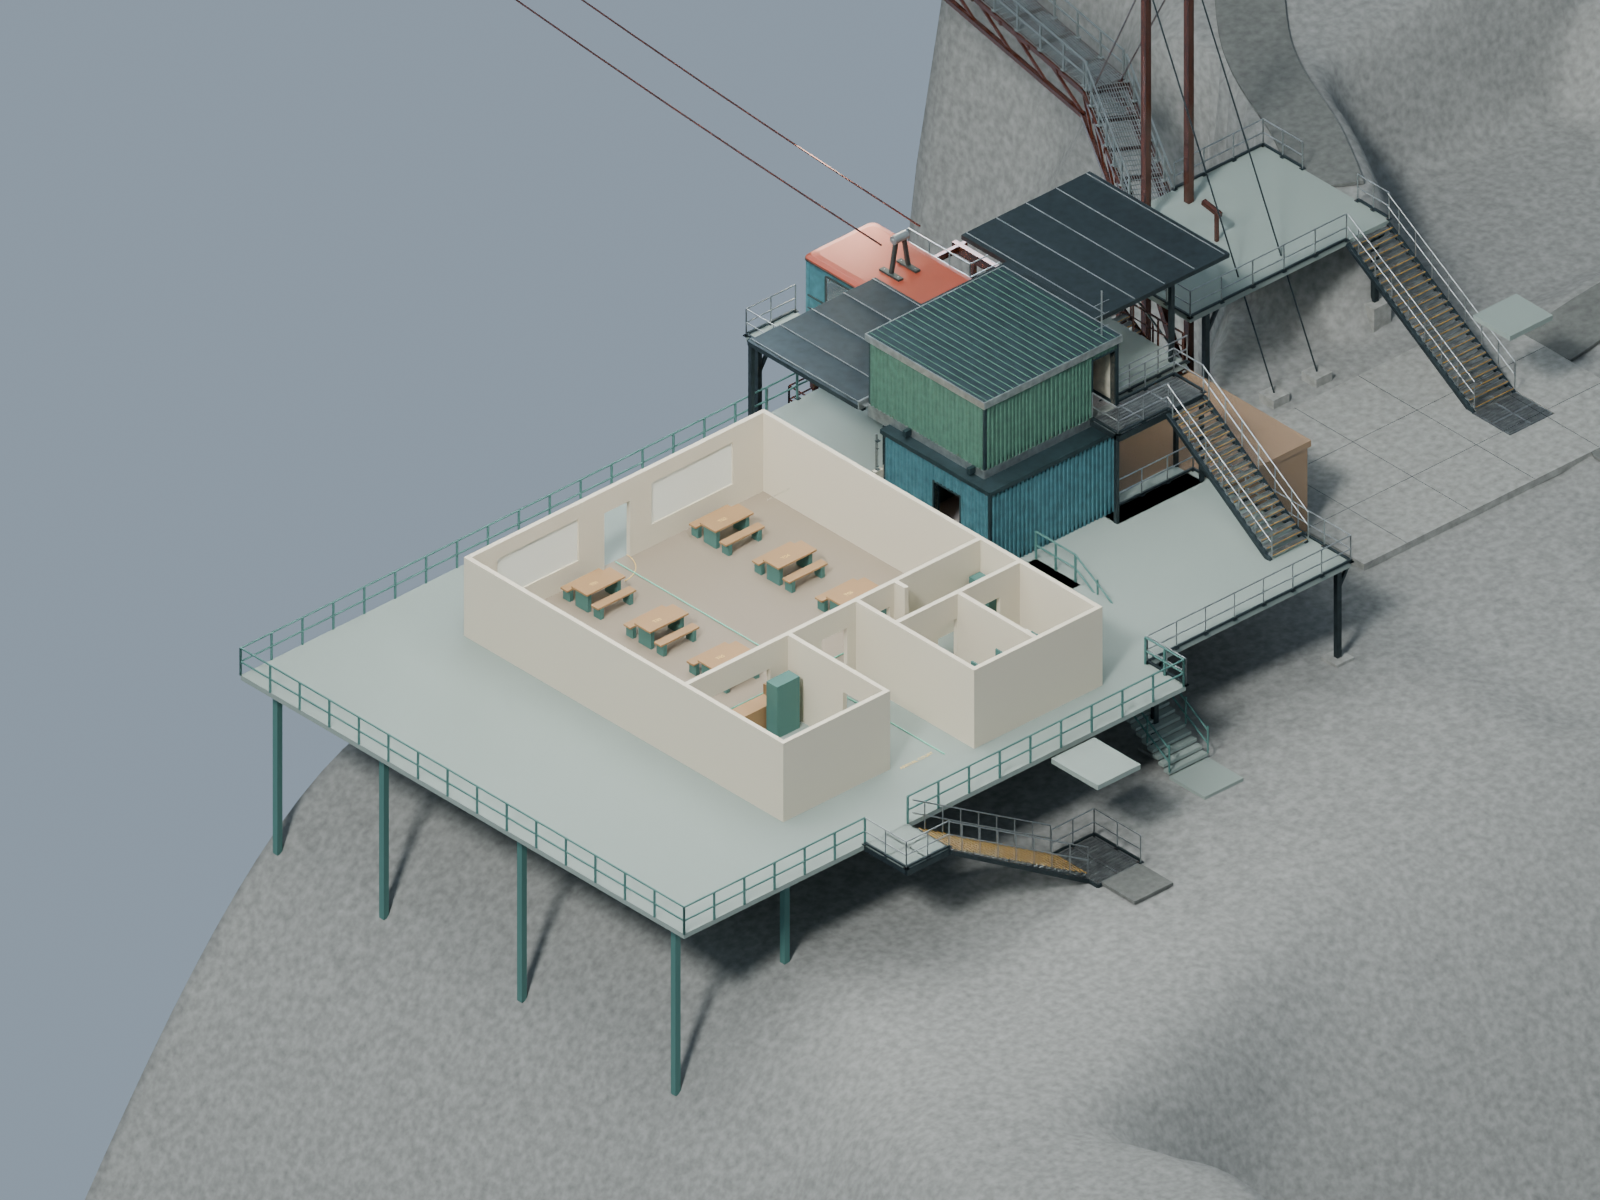
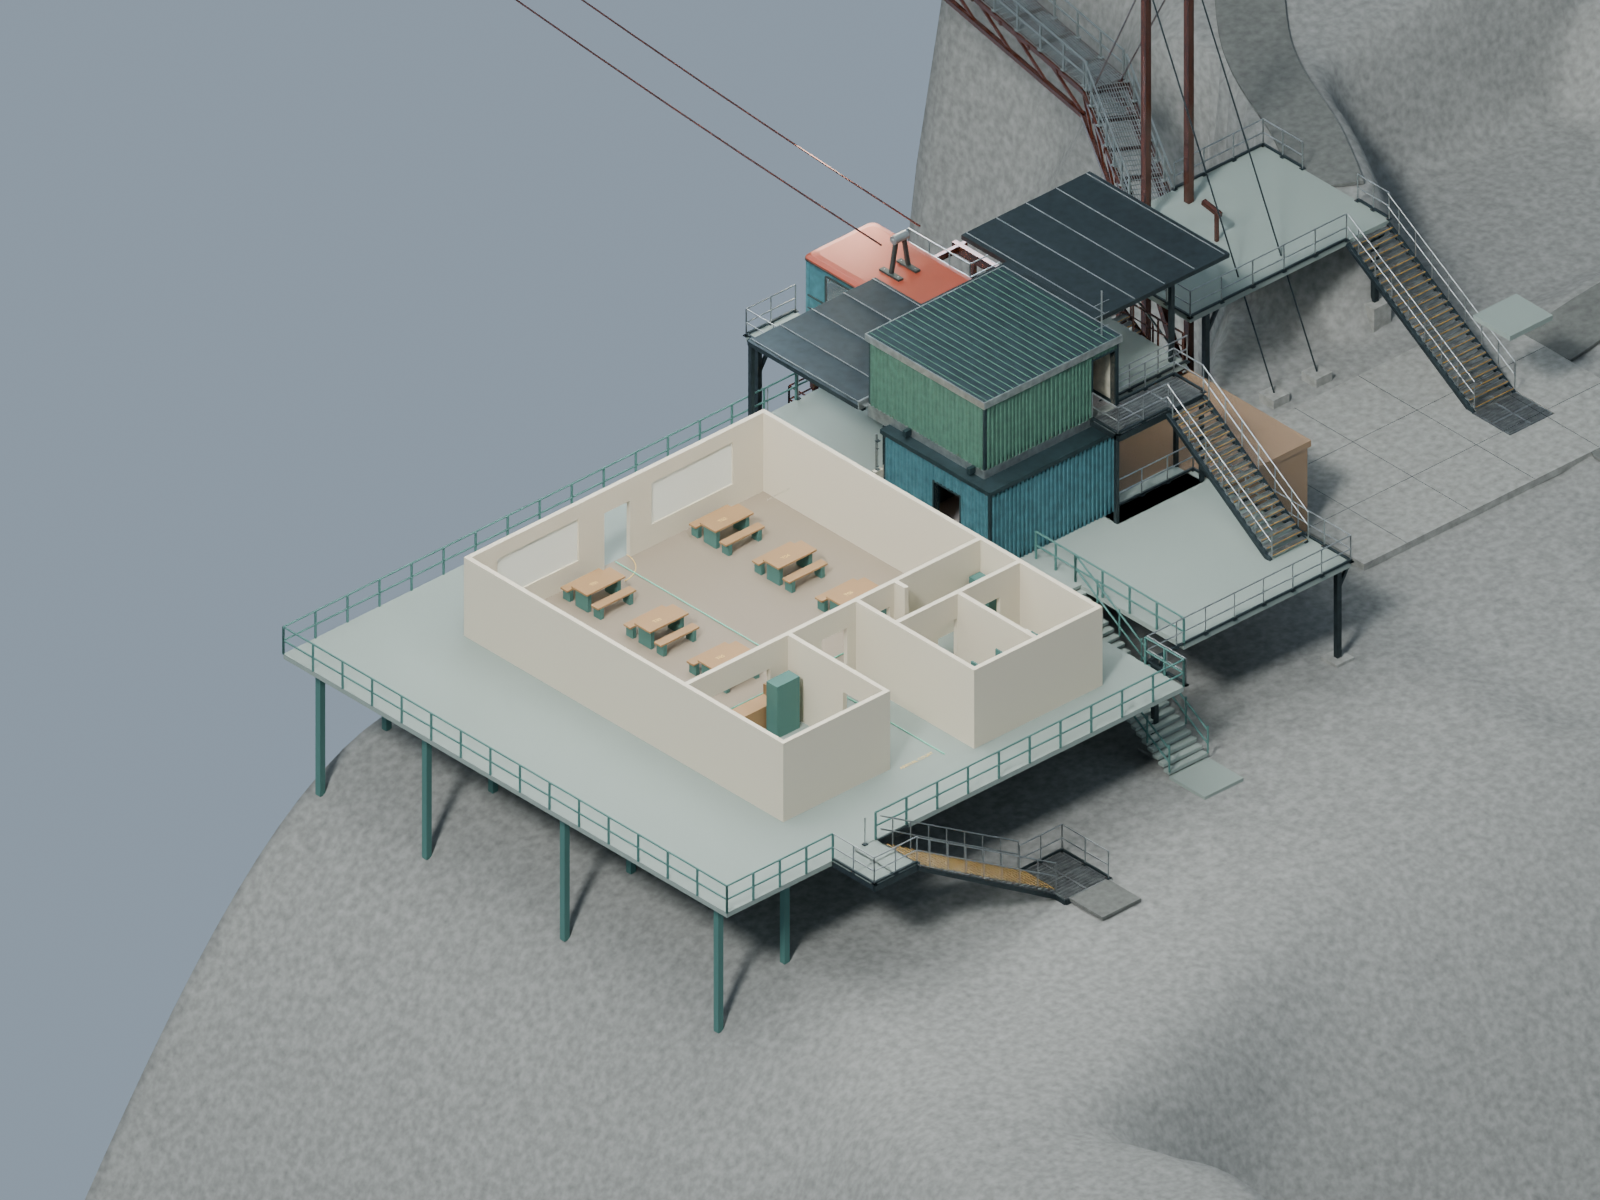
Refine lodge platform width and clear bypass stair opening

Changed region(s): [[0.1562, 0.4933, 0.5, 0.925], [0.5, 0.6167, 0.75, 0.7708], [0.6562, 0.4625, 0.7812, 0.6167]]

diff --git a/docs/passenger-cabin.html b/docs/passenger-cabin.html
@@ -36,6 +36,6 @@
 <path d="M620 995H770M620 989V1001M670 989V1001M720 989V1001M770 989V1001" class="measure"/><text x="695" y="1019" class="note">0 — 1 — 2 — 3 metres</text>
 </svg><p class="caption">Local design coordinates, not world axes. Exterior envelope dimensions; wall thickness, door swings and furniture clearance will be resolved in Blender. Dashed arrows show the intended circulation.</p></div>
 <aside><p class="eyebrow">THE WALK THROUGH</p><h2>Warmth before the platform.</h2><p>Enter through the court between two offset annexes. Posters line the left wall; lockers occupy the former notice wall to the right. Coffee is served through a hatch, with a real staff workspace behind it.</p><div id="detail" aria-live="polite"><h3>Four objects worth a closer look</h3><p>Select a numbered marker for the proposed inspection and first clue sequence.</p></div><h3>Two wings, different jobs</h3><p>A 5 × 5 m coffee annex and a separate 6 × 6 m restroom wing create a stepped footprint. A full-height screen and hallway hide the restroom doors from the hall. The arrival court separates food preparation from the wet rooms. The main hall extends 3.2 m for a third row of tables.</p><h3>What we preserve</h3><p>Central control keeps its independent keypad entrance. There is no connecting lodge door. Reach control outside via the platform; verify the annexes against the quarters, drive gallery and current site before modeling.</p></aside></section>
-<section class="brief"><h2>First Blender layout</h2><p>The full lodge is now blocked out in Blender. Furniture and equipment are size proxies; detailed modeling comes next. The combined station study below now tests its placement against the existing platform.</p><img src="assets/passenger-lodge-blockout.png" alt="Blender cutaway of the six-table lodge, coffee annex and screened restrooms" style="width:100%;height:auto"></section><section class="brief"><h2>Working beside the existing station</h2><p>The Blender file now includes the actual source platform, rails, stairs, control room and quarters. The new lodge is staged alongside for comparison; this is not its final placement.</p><img src="assets/passenger-lodge-station-reference.png" alt="Existing Blender station geometry beside the staged lodge blockout" style="width:100%;height:auto"></section><section class="brief"><h2>Combined station blockout</h2><p>The six-table lodge now occupies the expanded platform beside control. The deck grows outward to a broad west promenade, preserving the original sideways arrival and turn. A 2 m exterior bypass separates the lodge from control, with a second stair along its side.</p><img src="assets/passenger-lodge-combined.png" alt="Combined Blender station blockout with enlarged platform, six-table lodge and retained control building" style="width:100%;height:auto"><p>Saved Blender geometry and sampled walking routes have been checked. The lower terrain connection of the second stair remains provisional. This is a layout study; detailed shell, platform construction and Unreal collision validation follow.</p></section><section class="cards"><article><p class="eyebrow">01 / FURNISH</p><h2>Six tables. One counter.</h2><p>Six 1.8 m wooden picnic tables with twelve matching benches. Twelve full-height lockers. An enclosed coffee workspace with serving hatch, prep benches and dry storage.</p><p>Coffee urn, kettle, microwave, fridge, sink and a separate hand basin support preparation, heating, washing and restocking. A public lost-property cubby sits beside the hatch.</p></article><article><p class="eyebrow">02 / MATERIAL</p><h2>Used, cared for, then left.</h2><p>Warm pine, cream walls, petrol enamel, dull brass and quarry tile. Sharp gold double borders carry through to inspections. Repaired bench corners and cup rings matter more than blanket grime.</p><p>Three lightly dressed tables; three mostly clear. Leave a shelf, a locker and half the noticeboard for later evidence.</p></article><article><p class="eyebrow">03 / BUILD</p><h2>Space before small details.</h2><p>Survey → stepped blockout → shell and roof → furniture kit → inspection props → restrooms and utilities → materials and lighting → Unreal integration.</p><p>Review eye-height routes and sign visibility before detailing. Meshes come from Blender; generated artwork supplies posters and labels.</p></article></section>
+<section class="brief"><h2>First Blender layout</h2><p>The full lodge is now blocked out in Blender. Furniture and equipment are size proxies; detailed modeling comes next. The combined station study below now tests its placement against the existing platform.</p><img src="assets/passenger-lodge-blockout.png" alt="Blender cutaway of the six-table lodge, coffee annex and screened restrooms" style="width:100%;height:auto"></section><section class="brief"><h2>Working beside the existing station</h2><p>The Blender file now includes the actual source platform, rails, stairs, control room and quarters. The new lodge is staged alongside for comparison; this is not its final placement.</p><img src="assets/passenger-lodge-station-reference.png" alt="Existing Blender station geometry beside the staged lodge blockout" style="width:100%;height:auto"></section><section class="brief"><h2>Combined station blockout</h2><p>The six-table lodge now occupies the expanded platform beside control. The deck grows outward to a 5.35 m west promenade, with the sideways arrival and turn shifted 1.5 m left. A 2 m exterior bypass separates the lodge from control, with a second stair along its side.</p><img src="assets/passenger-lodge-combined.png" alt="Combined Blender station blockout with enlarged platform, six-table lodge and retained control building" style="width:100%;height:auto"><p>Saved Blender geometry and sampled walking routes have been checked. The lower terrain connection of the second stair remains provisional. This is a layout study; detailed shell, platform construction and Unreal collision validation follow.</p></section><section class="cards"><article><p class="eyebrow">01 / FURNISH</p><h2>Six tables. One counter.</h2><p>Six 1.8 m wooden picnic tables with twelve matching benches. Twelve full-height lockers. An enclosed coffee workspace with serving hatch, prep benches and dry storage.</p><p>Coffee urn, kettle, microwave, fridge, sink and a separate hand basin support preparation, heating, washing and restocking. A public lost-property cubby sits beside the hatch.</p></article><article><p class="eyebrow">02 / MATERIAL</p><h2>Used, cared for, then left.</h2><p>Warm pine, cream walls, petrol enamel, dull brass and quarry tile. Sharp gold double borders carry through to inspections. Repaired bench corners and cup rings matter more than blanket grime.</p><p>Three lightly dressed tables; three mostly clear. Leave a shelf, a locker and half the noticeboard for later evidence.</p></article><article><p class="eyebrow">03 / BUILD</p><h2>Space before small details.</h2><p>Survey → stepped blockout → shell and roof → furniture kit → inspection props → restrooms and utilities → materials and lighting → Unreal integration.</p><p>Review eye-height routes and sign visibility before detailing. Meshes come from Blender; generated artwork supplies posters and labels.</p></article></section>
 <section class="brief"><h2>The first clue is an everyday object.</h2><p>A lost-property ticket points to locker 07. Its tagged spare key is in the public cubby beside the serving hatch. A day bag contains a visitor map leading toward central control. This is a proposed observation-and-key tutorial; the current 1234 keypad setup remains unchanged.</p><p>Artwork comes after layout review: three ski/travel posters, ordinary notices and a small packaging sheet. Menu and clue text remain editable and exact. <a href="design/passenger-cabin.md">Read the complete quantities, build gates and artwork plan →</a></p></section>
 <footer>APPROVED WAITING HALL LAYOUT · COMBINED BLENDER BLOCKOUT READY FOR REVIEW</footer></main></body></html>

diff --git a/art/blender/passenger_lodge_02/scripts/refine_edges.py b/art/blender/passenger_lodge_02/scripts/refine_edges.py
@@ -1,0 +1,59 @@
+"""Executed by build.py before route checks; alter combined scene only."""
+# Narrow the west promenade, keeping rails and supporting columns aligned.
+for ob in list(c.objects):
+ lo,hi=bounds(ob)
+ if ob.name.startswith('PL02_Deck') and lo[0]<-31:
+  ob.dimensions.x-=2;ob.location.x+=1
+ elif ob.name.startswith('PL02_Perimeter'):
+  # Transform endpoints in mesh world coordinates so cross rails shorten too.
+  ob.data=ob.data.copy()
+  for v in ob.data.vertices:
+   p=ob.matrix_world@v.co
+   if p.x<-31:p.x+=2
+   v.co=ob.matrix_world.inverted()@p
+ elif ob.name.startswith('PL02_Support') and ob.location.x<-30:ob.location.x+=2
+
+# Remove the obsolete isolated deck tab; relocate the real arrival assembly.
+tab=bpy.data.objects.get('PL02_Deck_021')
+if tab:bpy.data.objects.remove(tab,do_unlink=True)
+bpy.context.view_layer.update()
+moving=[]
+for ob in list(s.objects):
+ if ob.type!='MESH' or not ob.visible_get():continue
+ lo,hi=bounds(ob)
+ if lo[0]>-24 and hi[0]<-12 and hi[1]<-15.14 and lo[2]>-.4:
+  moving.append(ob)
+# Source objects belong to shared collections: substitute copies in this scene.
+source_moving=[o for o in moving if o.name not in c.objects]
+affected_arrival={cc for o in source_moving for cc in o.users_collection}
+for cc in affected_arrival:
+ for ob in list(cc.objects):
+  if ob in source_moving:
+   dup=ob.copy();dup.data=ob.data;dup.name='PL02_Shifted_'+ob.name
+   ret.objects.link(dup);world=ob.matrix_world.copy();dup.parent=None;dup.matrix_world=world;dup.location.x-=1.5
+  elif ob.name not in ret.objects:ret.objects.link(ob)
+exclude(s.view_layers[0].layer_collection,{cc.name for cc in affected_arrival})
+for ob in moving:
+ if ob.name in c.objects:ob.location.x-=1.5
+# Rebuild the rear guard to match the shifted arrival opening.
+for ob in list(c.objects):
+ if ob.name.startswith(('PL02_Perimeter_2','PL02_Perimeter_3')):bpy.data.objects.remove(ob,do_unlink=True)
+rail('PL02_Rear_West',(-29.45,-15.15),(-24.5,-15.15))
+rail('PL02_Rear_East',(-22.5,-15.15),(-8.1,-15.15))
+
+# A stairwell must cut every deck slab, including the retained east footprint.
+well=(-8.1,-6.3,-15.15,-7.7)
+landing=(-10.1,-6.3,-7.7,-5.7)
+for ob in list(c.objects):
+ if not ob.name.startswith('PL02_Deck'):continue
+ lo,hi=bounds(ob);rect=(lo[0],hi[0],lo[1],hi[1]);parts=[rect]
+ for h in (well,landing):parts=[p for q in parts for p in subtract(q,h)]
+ if parts==[rect]:continue
+ name=ob.name;bpy.data.objects.remove(ob,do_unlink=True)
+ for j,(x0,x1,y0,y1) in enumerate(parts):box(name+'_Cut_'+str(j),x0,y0,3.8,x1-x0,y1-y0,.2,plate)
+# Protect the exposed outer edge of the well; the inner stair rail supplies its side.
+rail('PL02_Well_Guard',(-6.3,-13.2),(-6.3,-7.7))
+for route in layout['routes']:
+ if route['name']=='Arrival turn onto platform':
+  route['points']=[[p[0]-1.5,p[1],p[2]] for p in route['points']]
+print('Refined platform edges and stair opening; arrival moved 1.5 m west',flush=True)

diff --git a/art/blender/passenger_lodge_02/scripts/finish_edges.py b/art/blender/passenger_lodge_02/scripts/finish_edges.py
@@ -1,0 +1,36 @@
+import bpy,json,ast,math
+from pathlib import Path
+from mathutils import Vector
+OUT=Path(__file__).resolve().parents[1]
+bpy.ops.wm.open_mainfile(filepath=str(OUT/'Maldek_Combined_Station_Blockout.blend'))
+s=bpy.data.scenes['04_Combined_Station_Blockout'];bpy.context.window.scene=s
+c=bpy.data.collections['PL02_New_Deck_Rails_and_Stair'];steel=bpy.data.materials['Layout_Petrol_Enamel']
+tree=ast.parse((OUT/'scripts/build.py').read_text())
+for node in tree.body:
+ if isinstance(node,ast.FunctionDef) and node.name in ['bounds','box','beam','rail']:exec(compile(ast.Module(body=[node],type_ignores=[]),'helpers','exec'))
+# Rebuild west/north guards so intermediate posts follow the shorter edge too.
+for ob in list(c.objects):
+ if ob.name.startswith(('PL02_Perimeter_0','PL02_Perimeter_1')):bpy.data.objects.remove(ob,do_unlink=True)
+rail('PL02_Perimeter_0',(-29.45,-15.15),(-29.45,7.35))
+rail('PL02_Perimeter_1',(-29.45,7.35),(-4,7.35))
+# Updated outer support ground contacts after narrowing.
+probes=[]
+bpy.context.view_layer.update()
+terrain=bpy.data.objects['R11_Current_Terrain']
+for ob in c.objects:
+ if not ob.name.startswith('PL02_Support'):continue
+ x,y=ob.location.x,ob.location.y
+ origin=terrain.matrix_world.inverted()@Vector((x,y,3.6))
+ hit,loc,_,_=terrain.ray_cast(origin,Vector((0,0,-1)),distance=40)
+ if hit:
+  z=(terrain.matrix_world@loc).z;ob.dimensions.z=3.8-z;ob.location.z=(3.8+z)/2
+  probes.append({'xy':[x,y],'ground_z':z,'hit':terrain.name})
+r=json.loads((OUT/'fit_report.json').read_text());r['support_probes']=probes
+r['fixed_arrival']='Arrival assembly and turn moved 1.5 m west; source reference unchanged; ground approach requires fit validation.'
+r['edge_refinement']={'west_promenade_m':5.35,'arrival_shift_x_m':-1.5,'stairwell_cut_through_deck':True,'obsolete_deck_tab_removed':True}
+r.pop('validation',None)
+(OUT/'fit_report.json').write_text(json.dumps(r,indent=2))
+s.camera=bpy.data.objects['PL02_Combined_Overview'];bpy.ops.wm.save_as_mainfile(filepath=str(OUT/'Maldek_Combined_Station_Blockout.blend'))
+for name in ['PL02_Combined_Overview','PL02_Combined_Plan']:
+ s.camera=bpy.data.objects[name];s.render.filepath=str(OUT/'previews'/f'{name}.png');bpy.ops.render.render(write_still=True,scene=s.name)
+s.camera=bpy.data.objects['PL02_Combined_Overview'];bpy.ops.wm.save_as_mainfile(filepath=str(OUT/'Maldek_Combined_Station_Blockout.blend'))

diff --git a/art/blender/passenger_lodge_02/scripts/verify.py b/art/blender/passenger_lodge_02/scripts/verify.py
@@ -28,6 +28,13 @@ for c in ['PL02_New_Deck_Rails_and_Stair','PL02_Fitted_Lodge_Geometry']:
   bm.free()
 assert not nonmanifold,nonmanifold[:5]
 assert bpy.data.objects['PL02_Bypass_Upper_Landing'].dimensions.y>=1.99
+from mathutils import Vector
+for ob in bpy.data.collections['PL02_New_Deck_Rails_and_Stair'].objects:
+ if not ob.name.startswith('PL02_Deck'):continue
+ ps=[ob.matrix_world@Vector(v) for v in ob.bound_box]
+ lo=[min(p[i] for p in ps) for i in range(3)];hi=[max(p[i] for p in ps) for i in range(3)]
+ assert not (lo[0]<-6.3001 and hi[0]>-8.0999 and lo[1]<-7.7001 and hi[1]>-15.1499),ob.name
+ assert lo[0]>=-29.451,ob.name
 assert report['source_unchanged']
 report['validation']={'saved_reopened':True,'new_mesh_nonmanifold':nonmanifold,'route_floor_headroom_checks_passed':True,'boundary_probe_m':.002,'limits':'Sampled floor/headroom rays, not continuous capsule or Unreal collision. Existing grating arrival retained; lower stair terrain connection remains provisional.'}
 (OUT/'fit_report.json').write_text(json.dumps(report,indent=2))

diff --git a/art/blender/passenger_lodge_02/scripts/build.py b/art/blender/passenger_lodge_02/scripts/build.py
@@ -101,11 +101,12 @@ for x in [-8.1,-6.3]:
  for i in range(0,24,4):
   y=-14.42+i*.28;z=(i+1)*4/24;beam('PL02_Stair_post',(x,y,z),(x,y,z+1.1))
 rail('PL02_Landing_outer',(-6.3,-7.7),(-6.3,-5.7))
+exec(compile((OUT/'scripts/refine_edges.py').read_text(), 'refine_edges.py', 'exec'))
 print('Deck and stairs ready',flush=True)
 routes={
 
  'Fixed_arrival_turn':next(r['points'] for r in layout['routes'] if r['name']=='Arrival turn onto platform'),
- 'Arrival_to_lodge':[[-21.6,-14.3,4],[-17.1,-14.3,4],[-17.1,-6.8,4]],
+ 'Arrival_to_lodge':[[-23.1,-14.3,4],[-17.1,-14.3,4],[-17.1,-6.8,4]],
  'Lodge_to_platform':[[-17.1,-6.8,4],[-17.1,4.2,4],[-17.1,5.5,4],[-4,5.5,4]],
  'Exterior_bypass':[[-17.1,-14.3,4],[-9.1,-14.3,4],[-9.1,2,4],[-5,2,4]],
  'West_promenade':[[-28,-14,4],[-28,5.5,4],[-17.1,5.5,4]]}

diff --git a/art/blender/passenger_lodge_02/README.md b/art/blender/passenger_lodge_02/README.md
@@ -2,12 +2,18 @@
 
 `Maldek_Combined_Station_Blockout.blend` is a separate Blender placement study built from lodge 01 and its appended VF07 reference. Unreal and the source files are unchanged.
 
-The working scene is `04_Combined_Station_Blockout`. Earlier interior/reference scenes remain available. The lodge moves to (-24.1, 4, 4) metres in the Blender station coordinate system: expansion goes west/north of the old hall, leaving the original south arrival flight and turn in place. A 2 m strip between lodge and control forms the bypass. This is a blockout placement, not an approved Unreal transform.
+The working scene is `04_Combined_Station_Blockout`. Earlier interior/reference scenes remain available. The lodge moves to (-24.1, 4, 4) metres in the Blender station coordinate system: expansion goes west/north of the old hall, shifting the south arrival flight and turn 1.5 m west. A 2 m strip between lodge and control forms the bypass. This is a blockout placement, not an approved Unreal transform.
 
-The old waiting hall, public deck and affected guards/supports are excluded from this scene. Retained east rails/supports are linked back unchanged. Old hall fittings intersecting the new footprint are retired only in this scene; other objects from their collections are relinked. Replacement deck rectangles avoid the new lodge floors and stair landing; west perimeter rails follow the enlarged footprint. The original arrival stair, control, quarters, gondola and machinery remain reference geometry. New deck material is a solid placeholder for later grating/plate detailing.
+The old waiting hall, public deck and affected guards/supports are excluded from this scene. Retained east rails/supports are linked back unchanged. Old hall fittings intersecting the new footprint are retired only in this scene; other objects from their collections are relinked. Replacement deck rectangles avoid the new lodge floors and stair landing; west perimeter rails follow the enlarged footprint. The relocated arrival stair, control, quarters, gondola and machinery remain reference geometry. New deck material is a solid placeholder for later grating/plate detailing.
 
 The second stair runs along the right side of the bypass, with a turning upper landing. Its lower tie-in is provisional and requires terrain/service-yard verification before integration. Support probes and route samples are recorded in `fit_report.json`; do not interpret source preservation as complete collision validation.
 
 Review the combined overview and plan before detailed shell work. Rebuild using Blender 5.0 `--background --python art/blender/passenger_lodge_02/scripts/build.py` from the repo root. Before Unreal integration, resolve all reported route failures, lower landing fit, structural ground contact, roof/quarters clearance and the actual player capsule. Earlier web-plan dimensions are design intent; this file is the first source-relative fit study.
 
 Validation is in `verification.json`: saved/reopened new meshes and sampled route floor/headroom checks. A 2 mm contact patch resolves rays exactly on a shared slab boundary. The original grating stair is preserved, not re-certified by these point-ray tests. The second stair has a 2 m upper landing; its lower approach remains a separate terrain-fit task before final placement approval.
+
+## Edge refinement
+
+The west promenade is reduced from 7.35 m to 5.35 m. The original arrival assembly moves 1.5 m west in the combined scene, with its deck opening and guards following it. An obsolete projecting deck tab is removed. The right stair now has a full opening through every replacement deck slab, including the east platform footprint. Both lower stair approaches require terrain-fit review before integration. Source reference scenes retain their original geometry.
+
+Rebuild the refined version with scripts/build.py, then scripts/finish_edges.py, then scripts/verify.py (each through Blender --background --python). The finish pass rebuilds intermediate guard posts and re-probes the moved outer supports against terrain.

diff --git a/docs/design/station-expansion.md b/docs/design/station-expansion.md
@@ -62,3 +62,5 @@ The map now shows continuous deck beneath the arrival court, flush stair heads, 
 ## Combined Blender fit study
 
 Passenger lodge 02 fits the six-table layout beside the existing control building, extends the deck west to a 7.35 m promenade, and retains the original arrival stair and turn. The 2 m bypass connects to a proposed side stair with a 2 m upper landing. Source geometry remains available in the earlier reference scene. See art/blender/passenger_lodge_02/README.md and its fit_report.json for placement, source preservation and sampled-route evidence. The lower stair approach, final structure and Unreal player collision still require validation before integration.
+
+Edge refinement: west promenade reduced to 5.35 m; arrival assembly and turning opening moved 1.5 m west. The right-hand stair now cuts through all replacement deck surfaces, and an obsolete projecting deck tab is removed. Lower terrain connections remain provisional.
